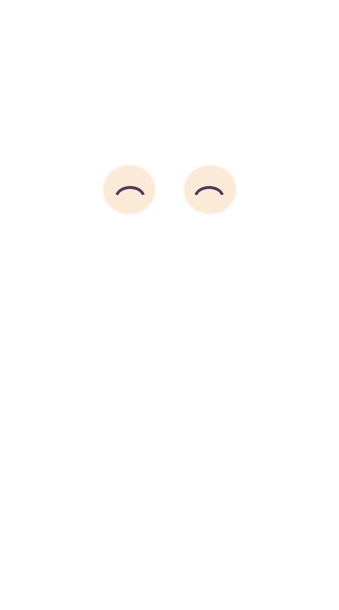
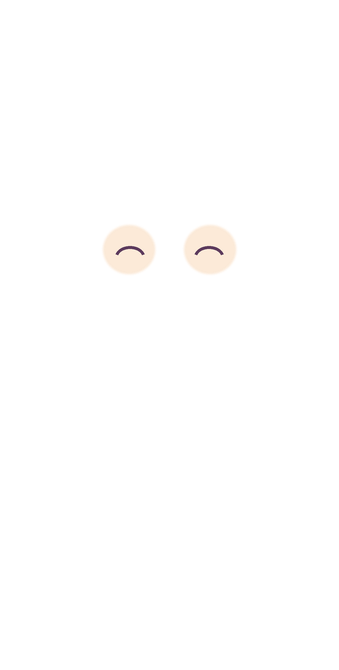
Add 5th hairstyle (bun + peach blossom), taller canvas, slow hair sway and eye sparkle animations
Claude-Session: https://claude.ai/code/session_013rW3iWcCHnwjRq7oDHQ6Zj

Changed region(s): [[0.531, 0.2492, 0.708, 0.4049], [0.295, 0.2492, 0.472, 0.4049]]

diff --git a/index.html b/index.html
@@ -38,12 +38,31 @@
   .sheet button,#sheet button{margin-top:14px;width:100%;border:0;border-radius:14px;padding:12px;background:#f29bb4;color:#fff;font-size:16px;font-weight:700;}
 
   #stage{flex:1;min-height:0;display:flex;align-items:center;justify-content:center;padding:4px 0;}
-  #doll{position:relative;height:100%;aspect-ratio:339/610;max-width:92vw;border-radius:24px;transition:background .3s;}
+  #doll{position:relative;height:100%;aspect-ratio:339/670;max-width:92vw;border-radius:24px;transition:background .3s;}
   #doll{overflow:visible;touch-action:manipulation;cursor:pointer;}
   #char{position:absolute;left:0;top:3%;width:100%;height:97%;transform-origin:50% 100%;animation:breathe 3s ease-in-out infinite;}
   #char img{position:absolute;inset:0;width:100%;height:100%;object-fit:contain;pointer-events:none;user-select:none;-webkit-user-drag:none;}
   #char img[src=""]{display:none;}
   #L-face{opacity:0;}
+  /* 慢動畫：長髮下半段左右飄（上半段不動，分界在肩膀 y=390/670） */
+  #char img.hb-top{clip-path:inset(0 0 40.6% 0);}
+  #char img.hb-sway{transform-origin:50% 58.2%;}
+  #char img.hb-l{clip-path:inset(58% 49.5% 0 0);animation:swayL 4.6s ease-in-out infinite;}
+  #char img.hb-r{clip-path:inset(58% 0 0 49.5%);animation:swayR 5.2s ease-in-out infinite;}
+  @keyframes swayL{0%,100%{transform:skewX(1.6deg);}50%{transform:skewX(-1.2deg);}}
+  @keyframes swayR{0%,100%{transform:skewX(-1.6deg);}50%{transform:skewX(1.2deg);}}
+  #char.jump img.hb-sway{animation:hairBounce .6s ease-out;}
+  @keyframes hairBounce{0%{transform:translateY(0);}30%{transform:translateY(2.5%) scaleY(.98);}60%{transform:translateY(-1%);}100%{transform:none;}}
+  /* 瀏海和前面的頭髮輕輕晃 */
+  #L-hairFront{transform-origin:50% 12%;animation:fringe 5.6s ease-in-out infinite;}
+  @keyframes fringe{0%,100%{transform:rotate(0deg);}50%{transform:rotate(.35deg) translateY(.15%);}}
+  /* 眼睛裡的亮光一閃一閃 */
+  .spark{position:absolute;width:3.2%;aspect-ratio:1;transform:translate(-50%,-50%);pointer-events:none;
+    background:radial-gradient(circle,#fff 0 22%,#fff0 60%);animation:twinkle 2.8s ease-in-out infinite;}
+  .spark::before,.spark::after{content:"";position:absolute;left:50%;top:50%;width:100%;height:12%;background:#fff;border-radius:9px;transform:translate(-50%,-50%);}
+  .spark::after{width:12%;height:100%;}
+  .spark.s2{animation-delay:-1.4s;}
+  @keyframes twinkle{0%,100%{opacity:0;transform:translate(-50%,-50%) scale(.4) rotate(0deg);}45%,55%{opacity:.95;transform:translate(-50%,-50%) scale(1) rotate(45deg);}}
   #L-face.show{opacity:1;}
   @keyframes breathe{50%{transform:scale(1.008,1.018);}}
   #char.jump{animation:jump .55s cubic-bezier(.3,.7,.4,1);}
@@ -87,8 +106,12 @@
   <div id="stage">
     <div id="doll">
       <div id="char">
-        <img id="L-hairBack" src="" alt="">
+        <img id="L-hairBack" class="hb-top" src="" alt="">
+        <img id="L-hairSwayL" class="hb-sway hb-l" src="" alt="">
+        <img id="L-hairSwayR" class="hb-sway hb-r" src="" alt="">
         <img id="L-base" src="img/base.png" alt="Q 版小人">
+        <span class="spark" style="left:37.5%;top:36.6%"></span>
+        <span class="spark s2" style="left:60.8%;top:36.6%"></span>
         <img id="L-face" src="img/face/blink.png" alt="">
         <img id="L-hairFront" src="" alt="">
       </div>
@@ -124,6 +147,7 @@ const CATS = [
       { id: 'h2', icon: 'img/hair/2_icon.png', back: 'img/hair/2_back.png', front: 'img/hair/2_front.png' },
       { id: 'h3', icon: 'img/hair/3_icon.png', back: 'img/hair/3_back.png', front: 'img/hair/3_front.png' },
       { id: 'h4', icon: 'img/hair/4_icon.png', back: 'img/hair/4_back.png', front: 'img/hair/4_front.png' },
+      { id: 'h5', icon: 'img/hair/5_icon.png', back: 'img/hair/5_back.png', front: 'img/hair/5_front.png' },
   ]},
   { id: 'clothes', name: '衣服', soon: true, items: [] },
   { id: 'bg', name: '背景', items: [
@@ -146,6 +170,8 @@ function find(cat, id){ return CATS.find(c => c.id === cat).items.find(i => i.id
 function render(){
   const h = find('hair', pick.hair) || {};
   $('L-hairBack').src = h.back || '';
+  $('L-hairSwayL').src = h.back || '';
+  $('L-hairSwayR').src = h.back || '';
   $('L-hairFront').src = h.front || '';
   $('doll').style.background = (find('bg', pick.bg) || {}).color || '#fbe4ec';
 
@@ -177,7 +203,7 @@ function render(){
 }
 
 $('save').onclick = async () => {
-  const W = 678, H = 1220, cv = document.createElement('canvas');
+  const W = 678, H = 1340, cv = document.createElement('canvas');
   cv.width = W; cv.height = H;
   const g = cv.getContext('2d');
   g.fillStyle = $('doll').style.background || '#fbe4ec'; g.fillRect(0, 0, W, H);

diff --git a/sw.js b/sw.js
@@ -1,7 +1,7 @@
 // 換裝小屋 Service Worker
 // 策略：有網路時一律先抓最新版（所以一更新就看得到），沒網路才用手機裡存的舊版。
 // 每次改檔案，把 VERSION +1，手機會自動換成新版。
-const VERSION = 11;
+const VERSION = 12;
 const CACHE = 'dressup-v' + VERSION;
 
 self.addEventListener('install', e => {

diff --git a/README.md b/README.md
@@ -7,14 +7,16 @@
 ## 給以後的 Claude：這個專案怎麼做的
 - 跟「喵喵小窩」（repo `b0966836079-afk/meow`）是**完全分開**的專案，不要混在一起。
 - 前端：純 HTML/CSS/JS，沒有打包工具，放在 GitHub Pages（main 分支根目錄）。
-- 圖片素材在 `img/`，**所有圖層都是同一個畫布 339×610**，疊上去就對齊：
+- 圖片素材在 `img/`，**所有圖層都是同一個畫布 339×670**（2026-11-01 從 339×610 往上加高 60px，讓髮髻不被切掉），疊上去就對齊：
   - `img/base.png`：素體（含臉，無頭髮），透明背景。
   - `img/hair/N_back.png`（在身體後面）、`N_front.png`（瀏海，蓋在臉上）、`N_icon.png`（選單小圖）。
   - `img/face/blink.png`、`happy.png`：閉眼／笑眼表情，蓋在眼睛上（眨眼、被摸頭時用）。
   - 疊放順序：hairBack → base →（之後的衣服）→ face → hairFront。
 - 互動（index.html 下半部）：自然眨眼、點頭部＝摸頭（笑眼＋愛心）、點身體＝跳一下、換髮型＝轉圈、太久沒點會自己說話、連點 6 下會害羞。台詞在 `LINES`。
 - `index.html` 裡的 `CATS` 是素材清單，加新髮型/衣服/背景只要加一行。選擇存在 localStorage `dressup`。「存成照片」用 canvas 合成下載。
-- 髮型對齊做法：把頭髮依「臉洞」中心和下緣對到素體的頭（頭中心 x=168、下巴 y=248，畫布座標）。back 層＝整頂頭髮放身體後面；front 層＝下巴以上的頭髮，臉部窗口＝臉部橢圓下半（cx168 cy222 rx64 ry56）＋上方每一欄在瀏海自己的髮尾切（限制在 y150～178 之間），所以瀏海保留原本的髮尾形狀、垂到睫毛上；瀏海下加淡陰影，頭頂沒蓋到的空隙用附近頭髮的紋理補。眼睛位置：左 (130,192)、右 (209,192)。
+- 髮型對齊做法：把頭髮依「臉洞」中心和下緣對到素體的頭（頭中心 x=168、下巴 y=308，畫布座標）。back 層＝整頂頭髮放身體後面；front 層＝下巴以上的頭髮，臉部窗口＝臉部橢圓下半（cx168 cy222 rx64 ry56）＋上方每一欄在瀏海自己的髮尾切（限制在 y150～178 之間），所以瀏海保留原本的髮尾形狀、垂到睫毛上；瀏海下加淡陰影，頭頂沒蓋到的空隙用附近頭髮的紋理補。眼睛位置：左 (130,252)、右 (209,252)。
+- 第 5 款（深棕長髮＋髮髻＋桃花簪）是從使用者 AI 生成的女孩圖摳出頭髮再套上來的；耳朵旁的空洞用附近髮色補（`fillback`）。
+- 慢動畫：後面長髮從肩膀（y=390）以下切成左右兩半，各自用 skewX 慢慢擺（4.6s / 5.2s）；瀏海層極小幅度晃；眼睛有兩顆 CSS 星星亮光一閃一閃；跳的時候頭髮會彈一下。
 - 素材來源：使用者用 ChatGPT / Gemini 之類的 AI 生成（同一張素體、只換衣服或頭髮），再傳給 Claude 去背、對齊。
   - 去背做法：從邊緣 flood fill，遇到深色輪廓線停下（亮度門檻約 190），再只保留最大的連通區塊，邊緣輕微模糊。
   - 要使用者「下載原圖」再傳，不要截圖（截圖太小會糊）；提示詞要寫「純白背景、完全相同的人物/姿勢/大小/位置」。
